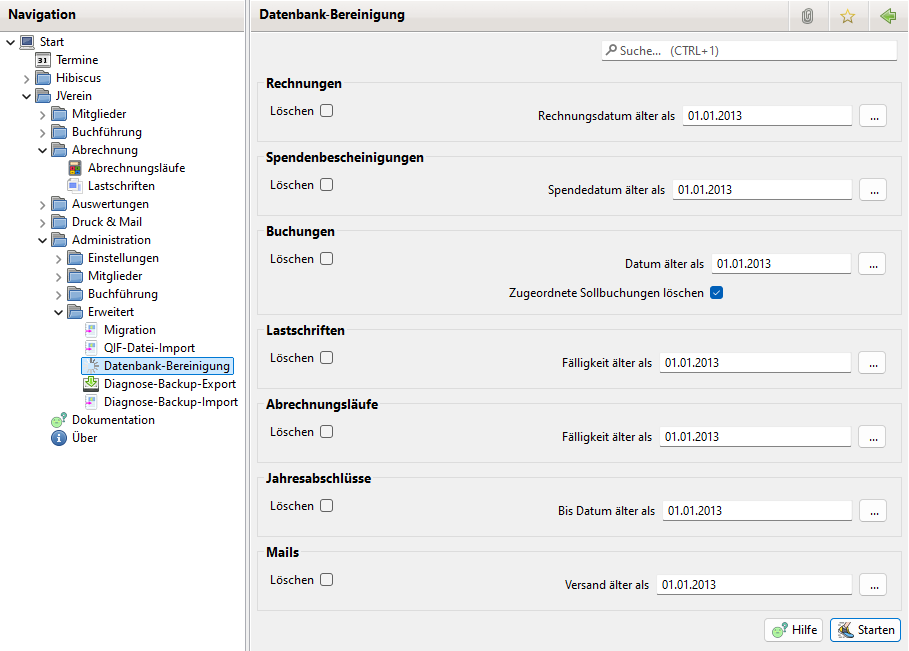
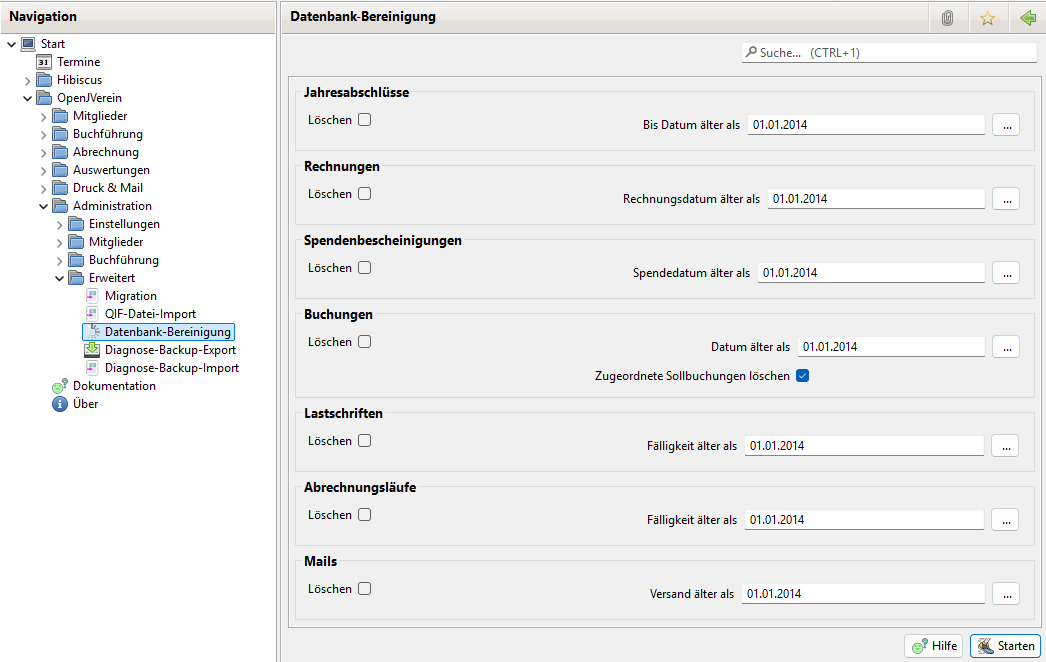
Update DB Bereinigen

diff --git a/v/3.2/administration/erweitert/bereinigen.md b/v/3.2/administration/erweitert/bereinigen.md
@@ -1,6 +1,6 @@
 # Datenbank bereinigen
 
-Genau wie für Unterlagen aus Papier gelten auch hier gesetzliche Aufbewahrungsfristen. Grundsätzlich gilt: Als Verein müssen Sie alle steuerlich relevanten Vereinsunterlagen für 10 Jahre bzw. 6 Jahre sicher aufbewahren.
+Genau wie für Unterlagen aus Papier gelten auch hier gesetzliche Aufbewahrungsfristen. Grundsätzlich gilt: Als Verein müssen Sie alle steuerlich relevanten Vereinsunterlagen für 10 Jahre bzw. 8 und 6 Jahre sicher aufbewahren.
 
 Nach Ablauf der Aufbewahrungsfristen können alte Unterlagen gelöscht werden.
 
@@ -8,12 +8,12 @@ Mit der Funktion Datenbank bereinigen lassen sich Daten in JVerein löschen die 
 
 Aktuell können folgende Daten gelöscht werden:
 
+* Jahresabschlüsse
 * Rechnungen
 * Spendenbescheinigungen
-* Buchungen: Sind ihnen noch Spendenbescheinigungen zugeordnet, lassen sie sich nicht löschen. Bei dieser Funktion sollte darum auch die Option "Spendenbescheinigungen" ausgewählt werden. Da ein Löschen von Buchungen welche Sollbuchungen zugeordnet sind zu offenen Buchungen führen können hier auch die zugeordneten Sollbuchungen mit gelöscht werden.
+* Buchungen: Sind die Geschäftsjahre abgeschlossen bzw. sind ihnen noch Spendenbescheinigungen zugeordnet, lassen sie sich nicht löschen. Bei dieser Funktion sollten darum auch die Optionen "Jahresabschlüsse" und "Spendenbescheinigungen" für den ausgewählten Zeitraum mit ausgewählt werden. Da ein Löschen von Buchungen welche Sollbuchungen zugeordnet sind zu offenen Buchungen führen können hier auch die zugeordneten Sollbuchungen mit gelöscht werden.
 * Lastschriften
 * Abrechnungsläufe
-* Jahresabschlüsse
 * Mails
 
 ![](img/Bereinigung.png)
